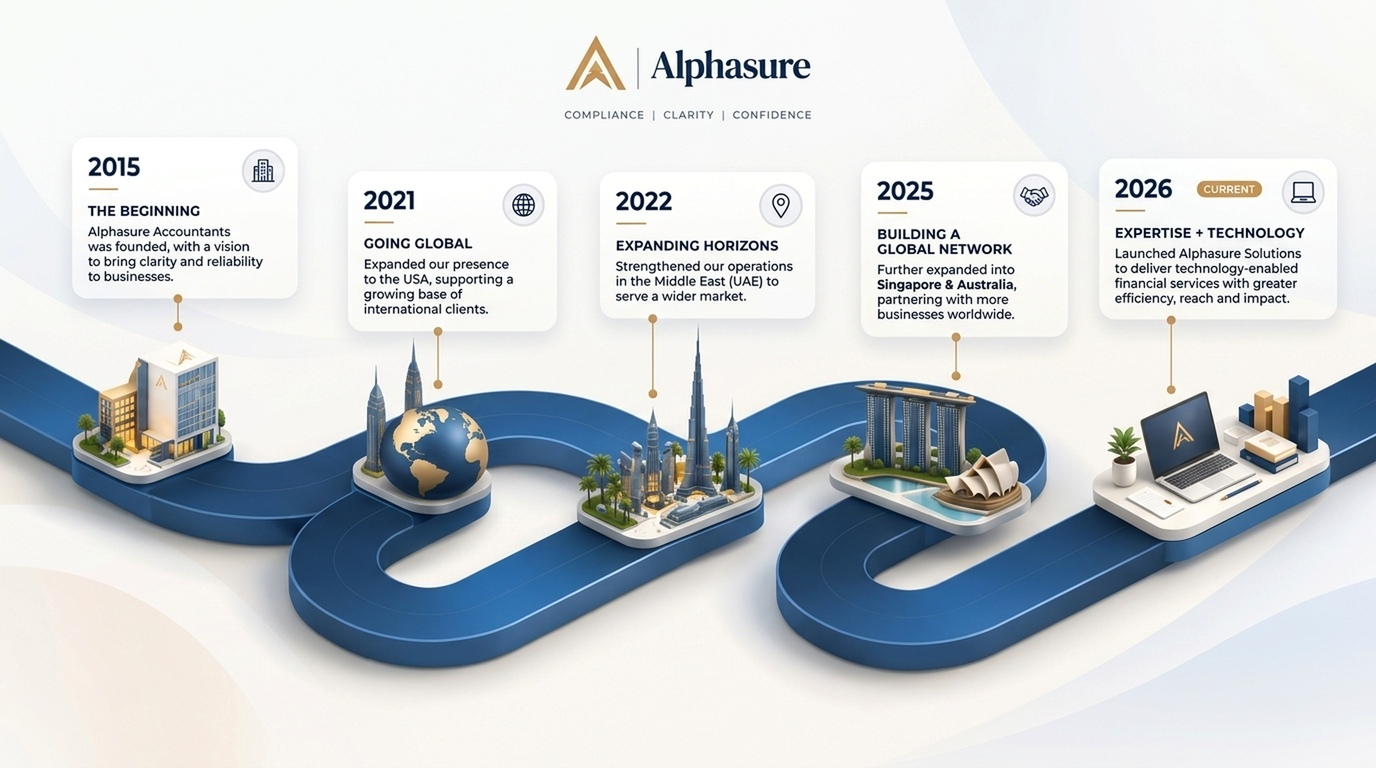
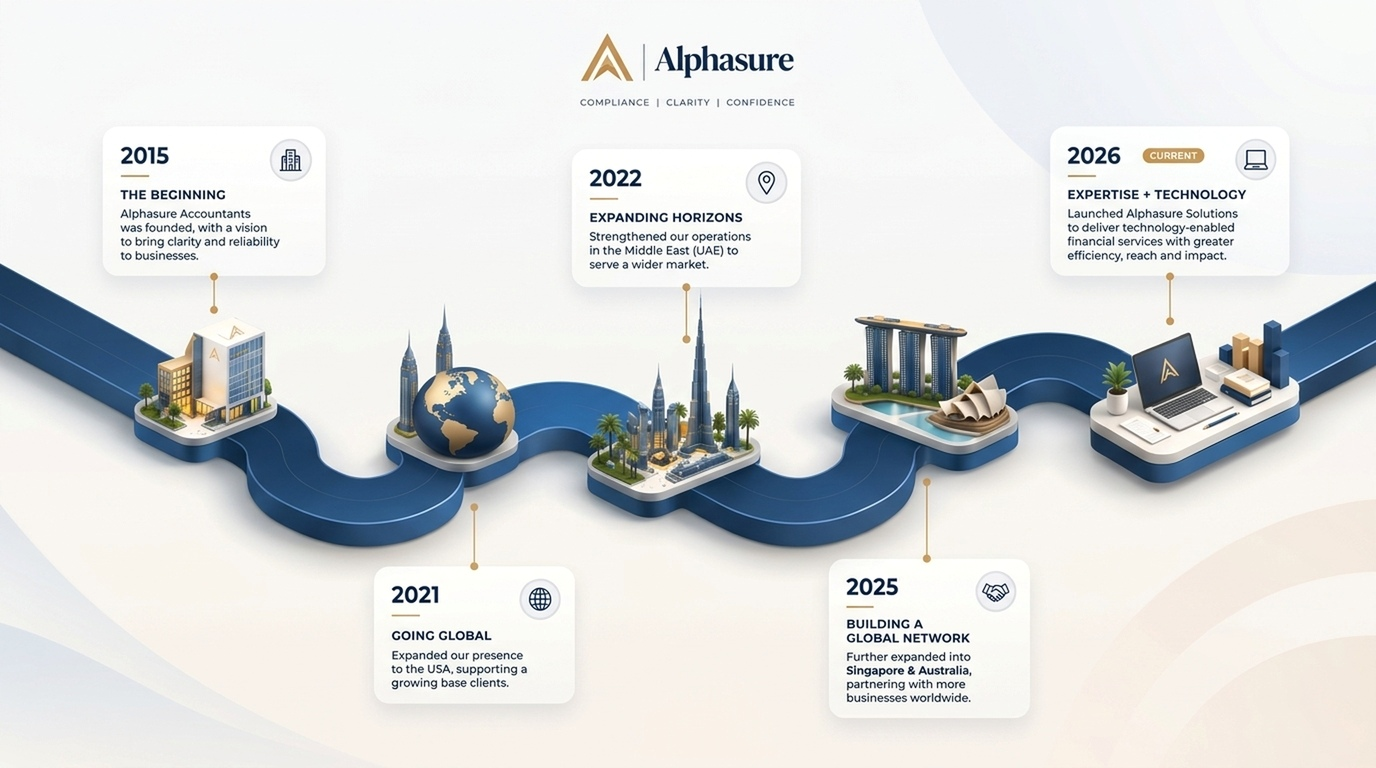
Update Our Journey with dynamic undulating horizontal roadmap, 1-to-1 clean nodes, and remove duplicate cards

diff --git a/src/components/OurJourneySection.jsx b/src/components/OurJourneySection.jsx
@@ -1,48 +1,6 @@
-import React, { useState } from 'react';
-import { Building, Globe, MapPin, Handshake, Laptop, ChevronRight } from 'lucide-react';
+import React from 'react';
 
 export default function OurJourneySection({ onOpenModal }) {
-  const [activeMilestone, setActiveMilestone] = useState(4); // Default to latest (2026)
-
-  const milestones = [
-    {
-      year: '2015',
-      title: 'THE BEGINNING',
-      description: 'Alphasure Accountants was founded, with a vision to bring clarity and reliability to businesses.',
-      location: 'India HQ',
-      icon: Building
-    },
-    {
-      year: '2021',
-      title: 'GOING GLOBAL',
-      description: 'Expanded our presence to the USA, supporting a growing base of international clients.',
-      location: 'USA',
-      icon: Globe
-    },
-    {
-      year: '2022',
-      title: 'EXPANDING HORIZONS',
-      description: 'Strengthened our operations in the Middle East (UAE) to serve a wider market.',
-      location: 'Middle East (UAE)',
-      icon: MapPin
-    },
-    {
-      year: '2025',
-      title: 'BUILDING A GLOBAL NETWORK',
-      description: 'Further expanded into Singapore & Australia, partnering with more businesses worldwide.',
-      location: 'Singapore & Australia',
-      icon: Handshake
-    },
-    {
-      year: '2026',
-      badge: 'CURRENT',
-      title: 'EXPERTISE + TECHNOLOGY',
-      description: 'Launched Alphasure Solutions to deliver technology-enabled financial services with greater efficiency, reach and impact.',
-      location: 'Global Solutions',
-      icon: Laptop
-    }
-  ];
-
   return (
     <section 
       className="relative w-full bg-[#FAF7F2] py-12 sm:py-16 lg:py-20 select-none overflow-hidden"
@@ -80,8 +38,8 @@ export default function OurJourneySection({ onOpenModal }) {
           </p>
         </div>
 
-        {/* ================= WIDESCREEN HORIZONTAL 3D ROADMAP (SEAMLESSLY BLENDED INTO SECTION) ================= */}
-        <div className="relative w-full max-w-[1320px] mx-auto mb-10 sm:mb-14">
+        {/* ================= WIDESCREEN DYNAMIC UNDULATING 3D ROADMAP ================= */}
+        <div className="relative w-full max-w-[1320px] mx-auto">
           
           {/* Seamless Feathered Blend Mask - No borders, no card box, pure integrated graphic */}
           <div className="relative w-full overflow-hidden [mask-image:radial-gradient(ellipse_96%_92%_at_50%_50%,black_75%,transparent_100%)]">
@@ -105,69 +63,6 @@ export default function OurJourneySection({ onOpenModal }) {
               className="w-full h-auto object-contain mix-blend-multiply select-none"
               loading="eager"
             />
-          </div>
-        </div>
-
-        {/* ================= HORIZONTAL INTERACTIVE MILESTONES (1-TO-1 MIRROR) ================= */}
-        <div className="max-w-[1280px] mx-auto">
-          <div className="grid grid-cols-1 sm:grid-cols-2 lg:grid-cols-5 gap-4 sm:gap-5">
-            {milestones.map((item, idx) => {
-              const IconComp = item.icon;
-              const isSelected = activeMilestone === idx;
-              return (
-                <div
-                  key={item.year}
-                  onClick={() => setActiveMilestone(idx)}
-                  className={`p-5 sm:p-6 rounded-[22px] border transition-all duration-300 cursor-pointer flex flex-col justify-between group ${
-                    isSelected 
-                      ? 'bg-white border-[#C5A059] shadow-[0_14px_38px_rgba(197,160,89,0.14)] -translate-y-1' 
-                      : 'bg-white/70 hover:bg-white border-[#E8DCCB] hover:border-[#C5A059]/70 hover:shadow-md hover:-translate-y-0.5'
-                  }`}
-                >
-                  {/* Card Header: Year, optional badge, and Circular Icon */}
-                  <div>
-                    <div className="flex items-center justify-between mb-2">
-                      <div className="flex items-center gap-2">
-                        <span className="font-serif font-black text-2xl text-[#0B192C] tracking-tight">
-                          {item.year}
-                        </span>
-                        {item.badge && (
-                          <span className="px-2 py-0.5 text-[10px] font-bold uppercase tracking-wider rounded-full bg-[#B88746] text-white">
-                            {item.badge}
-                          </span>
-                        )}
-                      </div>
-                      <div className={`w-9 h-9 rounded-full flex items-center justify-center shrink-0 transition-transform duration-300 group-hover:scale-110 ${
-                        isSelected 
-                          ? 'bg-[#1E3A8A] text-white shadow-xs' 
-                          : 'bg-[#F4F6F9] text-[#1E3A8A] border border-[#E2E8F0]'
-                      }`}>
-                        <IconComp className="w-4.5 h-4.5" />
-                      </div>
-                    </div>
-
-                    {/* Short Gold Underline */}
-                    <div className="w-7 h-[2px] bg-[#C5A059] rounded-full mb-3" />
-
-                    {/* Milestone Uppercase Title */}
-                    <h4 className="font-bold text-[13px] text-[#0B192C] tracking-wide mb-2">
-                      {item.title}
-                    </h4>
-
-                    {/* Exact Narrative Description */}
-                    <p className="text-[12.5px] text-slate-600 font-normal leading-relaxed">
-                      {item.description}
-                    </p>
-                  </div>
-
-                  {/* Card Footer: Location Tag */}
-                  <div className="mt-4 pt-3 border-t border-[#E8DCCB]/60 flex items-center justify-between text-[11px] font-bold text-[#A67C52]">
-                    <span>{item.location}</span>
-                    <ChevronRight className={`w-3.5 h-3.5 transition-transform ${isSelected ? 'translate-x-1 text-[#C5A059]' : 'text-slate-400'}`} />
-                  </div>
-                </div>
-              );
-            })}
           </div>
         </div>
 
